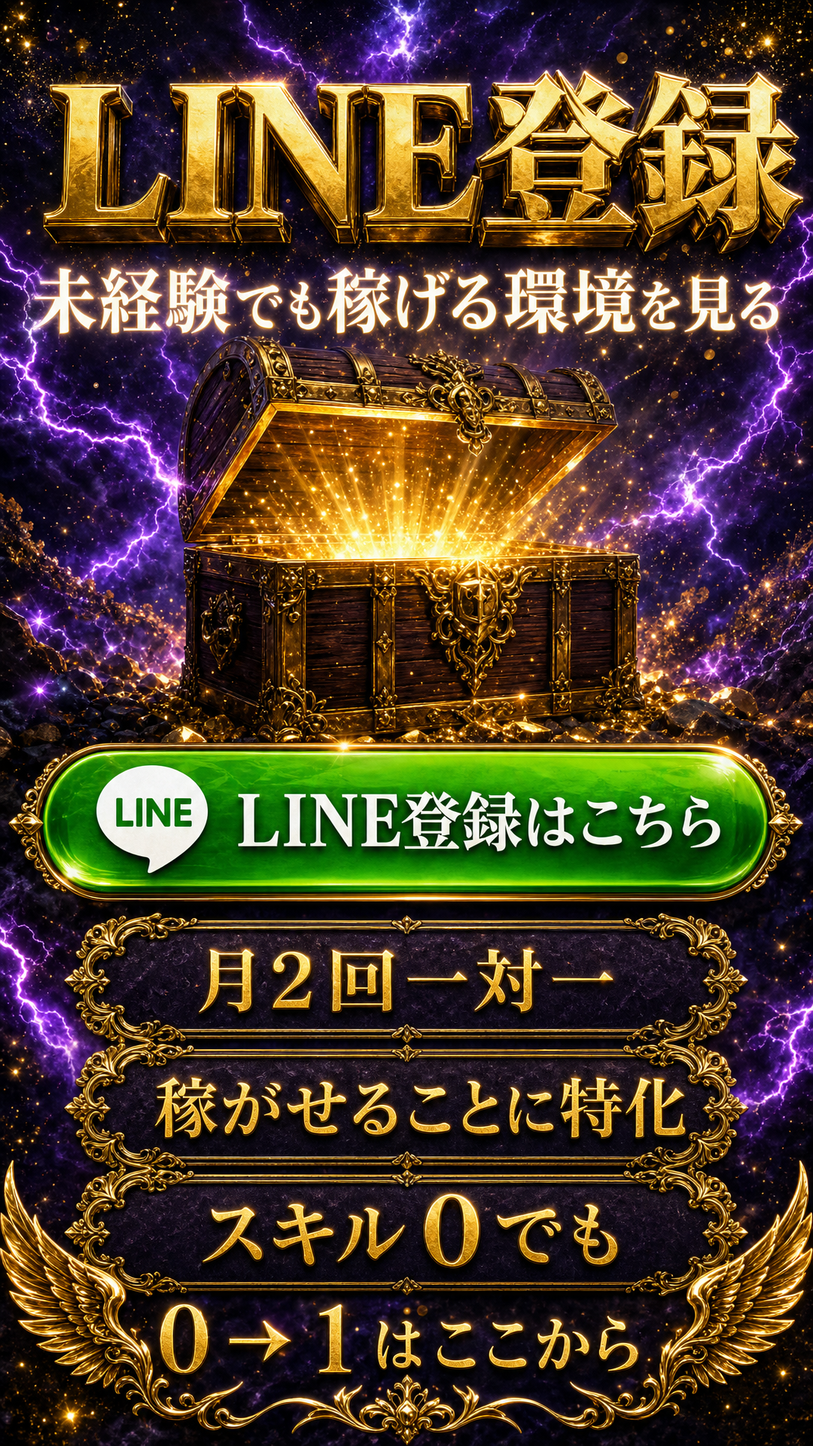
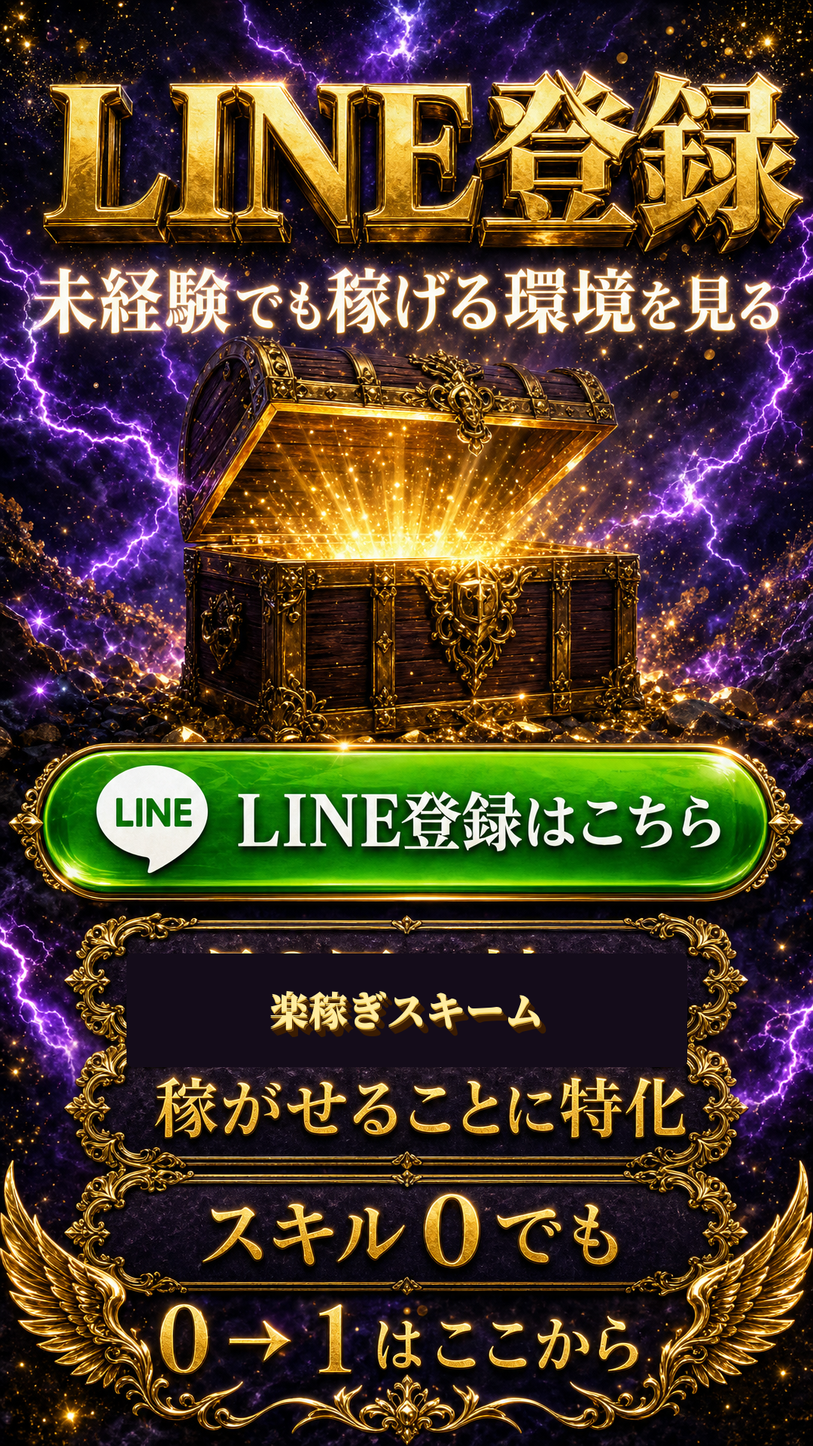
Add portrait perk stacks and remove consulting copy
Put perk images 1-20 at the top and bottom of the LINE register LP, fix 楽稼ぞ to 楽稼ぎ, and delete consulting assets.

Changed region(s): [[0.1528, 0.6562, 0.8556, 0.75]]

diff --git a/index.html b/index.html
@@ -10,18 +10,21 @@
 </head>
 <body>
   <main class="lp">
+    <img class="sec" src="assets/section-perks-1-10.png" width="1080" height="2200" alt="LINE登録特典。1 一週間SNS投稿カレンダー。2 バズるフック50選。3 短形動画の構成テンプレ10本。4 競合リサーチシート。5 運用代行ヒアリングシート。6 コメント返信テンプレ30。7 プロフィール改善チェックリスト。8 ハッシュタグ／検索流入の設計シート。9 SNSのKPIの見方。10 炎上回避ガイド。" />
+    <img class="sec" src="assets/section-perks-11-20.png" width="1080" height="2200" alt="特典。11 AI社員の役割設計シート。12 Cursor/Claude即戦プロンプト15。13 司令塔×専門Botの組織図テンプレ。14 OpenClaw自動化導入チェックリスト。15 日次ルーチン自動化レシピ。16 ファイル整理ルールブック。17 動画切り抜き指示テンプレ。18 LINEエルメ導線設計図。19 企業AI顧問の初回診断シート。20 スキルエンジン受講前診断。" />
     <img class="sec" src="assets/section-hero.png" width="1080" height="1920" alt="スキルエンジン。未経験でも稼げる環境。稼がせることに特化。スキル0でも。楽稼ぎスキーム。LINE登録。" />
     <img class="sec" src="assets/section-results-1.png" width="1080" height="2539" alt="実績。収益分配の支払い画面。" />
     <img class="sec" src="assets/section-results-2.png" width="1080" height="1716" alt="実績。バズポス使用アカウントの収益と受講生の報告。" />
     <img class="sec" src="assets/section-results-3.png" width="1080" height="3285" alt="実績。運用アカウントのアナリティクス。" />
     <img class="sec" src="assets/section-results-4.png" width="1080" height="3706" alt="実績。X運用代行アカウントの実績とアナリティクス。" />
-    <img class="sec" src="assets/section-consult.png" width="1080" height="1920" alt="月2回、みっちり個別コンサル一対一。" />
     <img class="sec" src="assets/section-earn.png" width="1080" height="1920" alt="AIの使い方だけ教えて一円も稼げないゴミスクールではない。稼がせることに特化。楽稼ぎスキームを複数。" />
     <img class="sec" src="assets/section-zero.png" width="1080" height="1920" alt="スキル0・人脈0・SNS経験0・AI経験0でも稼げる環境。" />
     <img class="sec" src="assets/section-quotes.png" width="1080" height="1920" alt="実はこの人たち…全員SNS副業初心者だったんです。スキルゼロ、経験ゼロ、時間もない。そんな人たちでも成果が出てしまうのがスキルエンジン。" />
     <a class="cta-img" href="https://liff.line.me/2009133356-u7JFBVtz?calendar_salon_id=26861">
       <img class="sec" src="assets/section-cta.png" width="1080" height="1920" alt="LINE登録はこちら。" />
     </a>
+    <img class="sec" src="assets/section-perks-1-10.png" width="1080" height="2200" alt="LINE登録特典。1 一週間SNS投稿カレンダー。2 バズるフック50選。3 短形動画の構成テンプレ10本。4 競合リサーチシート。5 運用代行ヒアリングシート。6 コメント返信テンプレ30。7 プロフィール改善チェックリスト。8 ハッシュタグ／検索流入の設計シート。9 SNSのKPIの見方。10 炎上回避ガイド。" />
+    <img class="sec" src="assets/section-perks-11-20.png" width="1080" height="2200" alt="特典。11 AI社員の役割設計シート。12 Cursor/Claude即戦プロンプト15。13 司令塔×専門Botの組織図テンプレ。14 OpenClaw自動化導入チェックリスト。15 日次ルーチン自動化レシピ。16 ファイル整理ルールブック。17 動画切り抜き指示テンプレ。18 LINEエルメ導線設計図。19 企業AI顧問の初回診断シート。20 スキルエンジン受講前診断。" />
   </main>
 
   <div class="sticky">

diff --git a/tools/patch_and_build_perks.py b/tools/patch_and_build_perks.py
@@ -1,0 +1,294 @@
+#!/usr/bin/env python3
+"""Patch 楽稼ぞ / consulting copy and compose portrait perk sections."""
+
+from __future__ import annotations
+
+from pathlib import Path
+
+from PIL import Image, ImageDraw, ImageEnhance, ImageFilter, ImageFont
+
+ROOT = Path(__file__).resolve().parents[1]
+ASSETS = ROOT / "assets"
+SANS = ROOT / "tools/fonts/NotoSansJP-Black.otf"
+SERIF = ROOT / "tools/fonts/NotoSerifJP-Black.otf"
+BG_A = Path("/opt/cursor/artifacts/assets/perk-bg-portrait.png")
+BG_B = Path("/opt/cursor/artifacts/assets/perk-bg-portrait-b.png")
+
+PERKS_1_10 = [
+    "一週間SNS投稿カレンダー",
+    "バズるフック50選",
+    "短形動画の構成テンプレ10本",
+    "競合リサーチシート",
+    "運用代行ヒアリングシート",
+    "コメント返信テンプレ30",
+    "プロフィール改善チェックリスト",
+    "ハッシュタグ／検索流入の設計シート",
+    "SNSのKPIの見方",
+    "炎上回避ガイド",
+]
+PERKS_11_20 = [
+    "AI社員の役割設計シート",
+    "Cursor/Claude即戦プロンプト15",
+    "司令塔×専門Botの組織図テンプレ",
+    "OpenClaw自動化導入チェックリスト",
+    "日次ルーチン自動化レシピ",
+    "ファイル整理ルールブック",
+    "動画切り抜き指示テンプレ",
+    "LINEエルメ導線設計図",
+    "企業AI顧問の初回診断シート",
+    "スキルエンジン受講前診断",
+]
+
+GOLD = (236, 196, 72, 255)
+GOLD_HI = (255, 236, 160, 230)
+GOLD_MID = (210, 168, 58, 255)
+GOLD_LO = (120, 78, 18, 255)
+GOLD_SHADOW = (58, 28, 2, 255)
+
+
+def font(path: Path, size: int) -> ImageFont.FreeTypeFont:
+    return ImageFont.truetype(str(path), size=size)
+
+
+def load(path: Path) -> Image.Image:
+    return Image.open(path).convert("RGBA")
+
+
+def save_png(im: Image.Image, dest: Path) -> None:
+    dest.parent.mkdir(parents=True, exist_ok=True)
+    rgb = im.convert("RGB")
+    rgb.save(dest, "PNG", optimize=True)
+    print(f"wrote {dest} {rgb.size} {dest.stat().st_size}")
+
+
+def gold_text(
+    draw: ImageDraw.ImageDraw,
+    xy: tuple[int, int],
+    text: str,
+    size: int,
+    face: Path = SERIF,
+    anchor: str = "mm",
+) -> None:
+    f = font(face, size)
+    x, y = xy
+    for i in range(8, 0, -1):
+        draw.text((x + i, y + i + 1), text, font=f, fill=GOLD_SHADOW, anchor=anchor)
+    draw.text((x + 2, y + 2), text, font=f, fill=GOLD_LO, anchor=anchor)
+    draw.text((x + 1, y + 1), text, font=f, fill=(90, 48, 6, 255), anchor=anchor)
+    draw.text((x, y), text, font=f, fill=GOLD, anchor=anchor)
+    draw.text((x, y - 2), text, font=f, fill=GOLD_HI, anchor=anchor)
+
+
+def white_text(
+    draw: ImageDraw.ImageDraw,
+    xy: tuple[int, int],
+    text: str,
+    size: int,
+    anchor: str = "lm",
+) -> None:
+    f = font(SANS, size)
+    x, y = xy
+    draw.text((x + 1, y + 2), text, font=f, fill=(20, 8, 30, 220), anchor=anchor)
+    draw.text((x, y), text, font=f, fill=(255, 252, 245, 255), anchor=anchor)
+
+
+def fit_text_size(text: str, max_width: int, start: int, face: Path = SANS) -> int:
+    size = start
+    while size >= 22:
+        f = font(face, size)
+        if f.getlength(text) <= max_width:
+            return size
+        size -= 1
+    return 22
+
+
+def cover_box(
+    im: Image.Image,
+    box: tuple[int, int, int, int],
+    color: tuple[int, int, int],
+    radius: int = 16,
+    feather: int = 1,
+) -> None:
+    """Paint the inner field so leftover 3D glyphs cannot show through."""
+    mask = Image.new("L", im.size, 0)
+    ImageDraw.Draw(mask).rounded_rectangle(box, radius=radius, fill=255)
+    if feather:
+        mask = mask.filter(ImageFilter.GaussianBlur(feather))
+    tint = Image.new("RGBA", im.size, color + (255,))
+    im.paste(tint, (0, 0), mask)
+
+
+def stamp_strip(
+    im: Image.Image,
+    box: tuple[int, int, int, int],
+    donor: tuple[int, int, int, int],
+) -> None:
+    """Stretch a clean nearby strip across the lettering band to keep texture."""
+    x0, y0, x1, y1 = box
+    src = im.crop(donor).resize((x1 - x0, y1 - y0), Image.Resampling.LANCZOS)
+    im.paste(src, (x0, y0))
+
+
+def patch_hero(hero: Image.Image) -> Image.Image:
+    # fill the whole inner plaque so 楽稼ぞ cannot peek around a smaller bar
+    cover_box(hero, (636, 1410, 974, 1510), (12, 7, 2), radius=24, feather=0)
+    draw = ImageDraw.Draw(hero)
+    gold_text(draw, (805, 1458), "楽稼ぎスキーム", size=40, face=SERIF)
+    return hero
+
+
+def patch_earn(earn: Image.Image) -> Image.Image:
+    cover_box(earn, (36, 750, 1044, 880), (6, 3, 16), radius=4, feather=0)
+    draw = ImageDraw.Draw(earn)
+    gold_text(draw, (540, 812), "楽稼ぎスキームを複数", size=62, face=SERIF)
+    return earn
+
+
+def patch_cta(cta: Image.Image) -> Image.Image:
+    cover_box(cta, (168, 1266, 912, 1416), (20, 12, 26), radius=8, feather=0)
+    draw = ImageDraw.Draw(cta)
+    gold_text(draw, (540, 1340), "楽稼ぎスキーム", size=52, face=SERIF)
+    return cta
+
+
+def resize_cover(im: Image.Image, size: tuple[int, int]) -> Image.Image:
+    tw, th = size
+    w, h = im.size
+    scale = max(tw / w, th / h)
+    nw, nh = max(1, round(w * scale)), max(1, round(h * scale))
+    im = im.resize((nw, nh), Image.Resampling.LANCZOS)
+    left = (nw - tw) // 2
+    top = (nh - th) // 2
+    return im.crop((left, top, left + tw, top + th))
+
+
+def draw_gold_bar(canvas: Image.Image, box: tuple[int, int, int, int]) -> None:
+    x0, y0, x1, y1 = box
+    layer = Image.new("RGBA", canvas.size, (0, 0, 0, 0))
+    d = ImageDraw.Draw(layer)
+    d.rounded_rectangle((x0, y0, x1, y1), radius=22, fill=(8, 2, 14, 220))
+    d.rounded_rectangle((x0, y0, x1, y1), radius=22, outline=(232, 188, 72, 255), width=5)
+    d.rounded_rectangle((x0 + 7, y0 + 7, x1 - 7, y1 - 7), radius=16, outline=(180, 132, 40, 180), width=2)
+    # corner ticks
+    for cx, cy, sx, sy in (
+        (x0 + 18, y0 + 16, 1, 1),
+        (x1 - 18, y0 + 16, -1, 1),
+        (x0 + 18, y1 - 16, 1, -1),
+        (x1 - 18, y1 - 16, -1, -1),
+    ):
+        d.line((cx, cy, cx + 16 * sx, cy), fill=GOLD, width=2)
+        d.line((cx, cy, cx, cy + 16 * sy), fill=GOLD, width=2)
+    canvas.alpha_composite(layer)
+
+
+def draw_number_badge(canvas: Image.Image, center: tuple[int, int], n: int) -> None:
+    cx, cy = center
+    r = 46
+    layer = Image.new("RGBA", canvas.size, (0, 0, 0, 0))
+    d = ImageDraw.Draw(layer)
+    d.ellipse((cx - r - 6, cy - r - 6, cx + r + 6, cy + r + 6), fill=(40, 22, 4, 255))
+    d.ellipse((cx - r - 4, cy - r - 4, cx + r + 4, cy + r + 4), outline=GOLD, width=5)
+    d.ellipse((cx - r + 4, cy - r + 4, cx + r - 4, cy + r - 4), outline=(255, 230, 140, 200), width=2)
+    d.ellipse((cx - r + 8, cy - r + 8, cx + r - 8, cy + r - 8), fill=(12, 4, 18, 240))
+    canvas.alpha_composite(layer)
+    draw = ImageDraw.Draw(canvas)
+    gold_text(draw, (cx, cy + 1), str(n), size=42 if n < 10 else 36, face=SERIF)
+
+
+def compose_perk_sheet(
+    bg_path: Path,
+    title: str,
+    subtitle: str,
+    items: list[str],
+    start_n: int,
+    footer: str,
+    dest: Path,
+) -> None:
+    W, H = 1080, 2200
+    bg = resize_cover(load(bg_path), (W, H))
+    # slightly darken the lightning so white type stays readable
+    bg = ImageEnhance.Brightness(bg).enhance(0.82)
+    canvas = bg.convert("RGBA")
+    veil = Image.new("RGBA", (W, H), (6, 2, 16, 70))
+    canvas.alpha_composite(veil)
+
+    draw = ImageDraw.Draw(canvas)
+    gold_text(draw, (540, 168), title, size=78 if len(title) <= 4 else 68, face=SERIF)
+    if subtitle:
+        f = font(SANS, 30)
+        draw.text((541, 249), subtitle, font=f, fill=(30, 10, 40, 200), anchor="mm")
+        draw.text((540, 247), subtitle, font=f, fill=(255, 250, 240, 255), anchor="mm")
+        # small gold flourishes beside the subtitle
+        sw = int(f.getlength(subtitle))
+        draw.line((160, 247, 540 - sw // 2 - 24, 247), fill=GOLD_MID, width=2)
+        draw.line((540 + sw // 2 + 24, 247, 920, 247), fill=GOLD_MID, width=2)
+
+    top = 310 if subtitle else 280
+    bottom = 2040 if footer else 2100
+    row_h = 118
+    gap = 18
+    usable = bottom - top
+    need = 10 * row_h + 9 * gap
+    if need > usable:
+        row_h = 108
+        gap = 14
+    y = top
+    bar_left = 148
+    bar_right = 1010
+    for i, name in enumerate(items):
+        n = start_n + i
+        by0, by1 = y, y + row_h
+        draw_gold_bar(canvas, (bar_left, by0, bar_right, by1))
+        draw_number_badge(canvas, (102, (by0 + by1) // 2), n)
+        max_w = bar_right - bar_left - 56
+        size = fit_text_size(name, max_w, 38)
+        draw = ImageDraw.Draw(canvas)
+        white_text(draw, (bar_left + 28, (by0 + by1) // 2), name, size=size)
+        y += row_h + gap
+
+    if footer:
+        gold_text(draw, (540, 2118), footer, size=52, face=SERIF)
+    save_png(canvas, dest)
+
+
+def patch_existing() -> None:
+    hero = load(ASSETS / "section-hero.png")
+    save_png(patch_hero(hero), ASSETS / "section-hero.png")
+    earn = load(ASSETS / "section-earn.png")
+    save_png(patch_earn(earn), ASSETS / "section-earn.png")
+    cta = load(ASSETS / "section-cta.png")
+    save_png(patch_cta(cta), ASSETS / "section-cta.png")
+
+
+def build_perks() -> None:
+    compose_perk_sheet(
+        BG_A,
+        "LINE登録特典",
+        "公式LINEに登録すると手に入る",
+        PERKS_1_10,
+        1,
+        "",
+        ASSETS / "section-perks-1-10.png",
+    )
+    compose_perk_sheet(
+        BG_B,
+        "特典",
+        "",
+        PERKS_11_20,
+        11,
+        "LINE登録で受け取る",
+        ASSETS / "section-perks-11-20.png",
+    )
+
+
+def main() -> None:
+    if not SANS.exists() or not SERIF.exists():
+        raise SystemExit("missing Japanese fonts in tools/fonts")
+    if not BG_A.exists() or not BG_B.exists():
+        raise SystemExit("missing generated perk backgrounds")
+    patch_existing()
+    build_perks()
+
+
+if __name__ == "__main__":
+    main()

diff --git a/tools/build_lp_art.py b/tools/build_lp_art.py
@@ -102,7 +102,7 @@ def circular_paste(base: Image.Image, src: Image.Image, center: tuple[int, int],
 
 
 def erase_ribbon(hero: Image.Image) -> None:
-    """Remove the maroon 「月2回 一対一」 ribbon with nearby lightning/starfield."""
+    """Remove the leftover maroon ribbon with nearby lightning/starfield."""
     y0, y1 = 528, 678
     x0, x1 = 70, 1010
     left = hero.crop((48, y0, 168, y1))
@@ -122,12 +122,15 @@ def erase_ribbon(hero: Image.Image) -> None:
 
 
 def replace_consult_icon(hero: Image.Image) -> None:
-    consult = load(ASSETS / "section-consult.png")
-    chest = consult.crop((220, 10, 860, 520))
+    # Treasure chest now lives on the hero itself; do not require a consult plate.
+    chest_src = ASSETS / "section-hero.png"
+    if not chest_src.exists():
+        return
+    chest = load(chest_src).crop((140, 1100, 400, 1360))
     circular_paste(hero, chest, center=(268, 1286), radius=122)
 
     # Copy the matching right-plaque inner field, then paint 稼がせる.
-    # The original left plaque still contains 個別コンサル glyph pixels at the edges.
+    # Flatten leftover gold lettering on the donor plaque field.
     src_field = orig().crop((668, 1418, 952, 1490))
     field = src_field.resize((340, 72), Image.Resampling.LANCZOS)
     # flatten any leftover gold lettering on the donor too

diff --git a/README.md b/README.md
@@ -4,4 +4,4 @@
 
 公開URL: https://rezent011-sketch.github.io/skillengine-line-register-lp/
 
-本文は 1080 幅の完成済み縦画像を積み上げ、下部に固定の LINE CTA（LINE登録はこちら）を置いています。ヒーローにコンサル文言は出しません。実績セクションは広告LPと同じ実スクリーンショットを縦に積んでいます。
+本文は 1080 幅の完成済み縦画像を積み上げ、下部に固定の LINE CTA（LINE登録はこちら）を置いています。先頭と末尾は特典 1–10 / 11–20 の縦画像です。コンサル文言は出しません。
